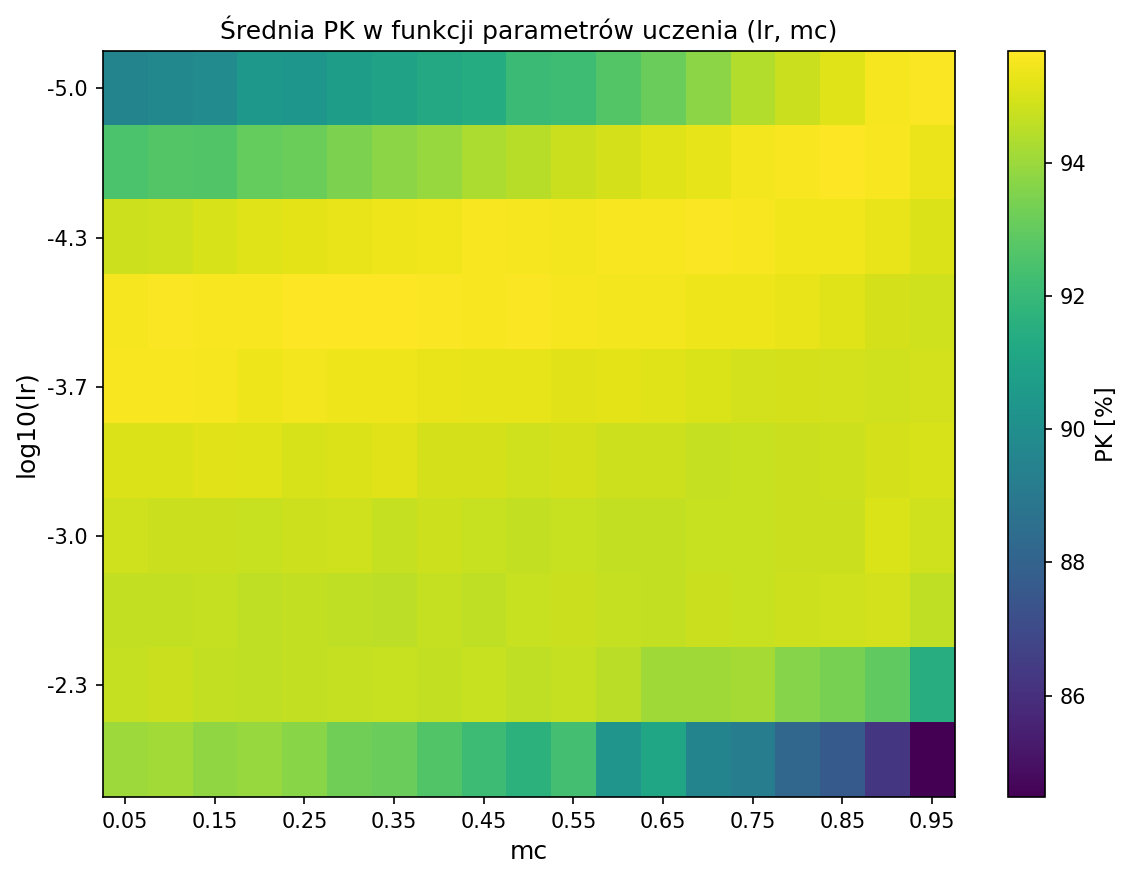
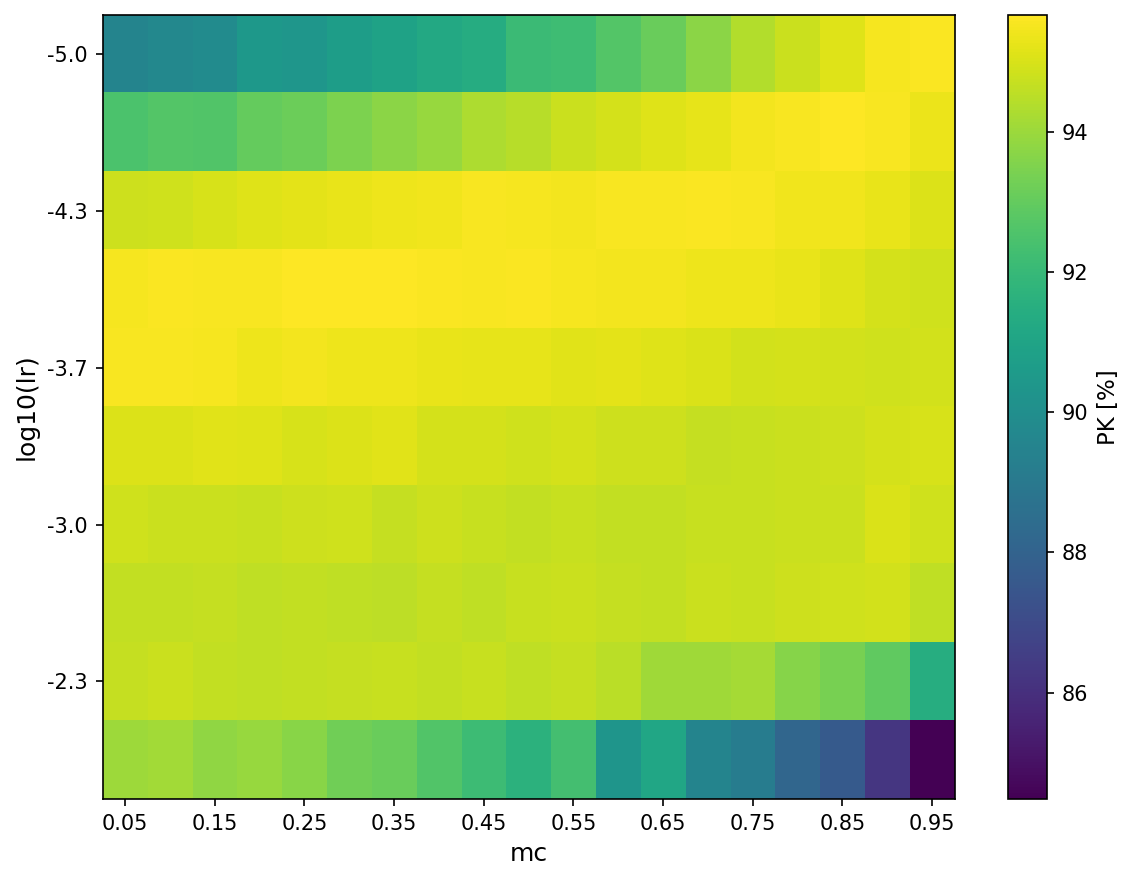
Zmiany

diff --git a/projektAI.tex b/projektAI.tex
@@ -1,5 +1,7 @@
 \documentclass[12pt,twoside]{article}
 \usepackage{weiiszablonzmodyfikowany}
+\usepackage{float}
+\usepackage{placeins}
 
 % Imię i nazwisko autora projektu
 \author{Hubert Lech}
@@ -891,7 +893,7 @@ W eksperymencie przeprowadzono całościową optymalizację wszystkich czterech 
 W badaniu przyjęto następującą konfigurację:
 \begin{itemize}[label={\textbullet}]
 \item przeszukiwane parametry architektury: $K1, K2 \in \{1, 2, \ldots, 10\}$,
-\item przeszukiwane parametry uczenia: $lr \in [10^{-5}, 10^{-2}]$ (skala logarytmiczna, 10 wartości),
+\item przeszukiwane parametry uczenia: $lr \in [10^{-5}, 10^{-2}]$,
 \item przeszukiwane parametry uczenia: $mc \in \{0.05, 0.10, \ldots, 0.95\}$,
 \item stałe warunki uczenia: \texttt{max\_epoch = 400}, \texttt{err\_goal = 0.05},
 \item ocena jakości: średnia skuteczność \texttt{PK [\%]} z \texttt{10}-krotnej walidacji krzyżowej,
@@ -908,162 +910,69 @@ lastline=80,
 breaklines=true,
 numbers=left,
 frame=single,
-caption={Eksperyment nr 5: pełny GridSearch po czterech parametrach},
+caption={Eksperyment nr 5: pe{\l}ny GridSearch po czterech parametrach},
 label={lst:exp5_gridsearch_4d_py}
 ]{exp5_gridsearch_4d.py}
 
-Skrypt uruchamia wyczerpujący GridSearch po wszystkich czterech parametrach, sprawdzając każdą kombinację przy użyciu walidacji krzyżowej. Dla każdej kombinacji zapisywane są uzyskane wyniki, które następnie są sortowane po skuteczności. Wyniki są wizualizowane z różnych perspektyw, co pozwala zrozumieć wpływ poszczególnych parametrów na jakość klasyfikacji.
+GridSearch sprawdza każdą kombinację przy użyciu walidacji krzyżowej. Dla każdej kombinacji zapisywane są uzyskane wyniki, które następnie są sortowane po skuteczności. Wyniki są wizualizowane z różnych perspektyw, co pozwala zrozumieć wpływ poszczególnych parametrów na jakość klasyfikacji.
 
-Wyniki eksperymentu przedstawiono na serii rysunków \ref{fig:exp5_k1k2} -- \ref{fig:exp5_top10}.
 
-\begin{figure}[h!]
+Rysunek \ref{fig:exp5_k1k2} pokazuje wpływ architektury sieci na skuteczność poprzez uśrednienie wyników dla wszystkich kombinacji parametrów uczenia. Pokazuje, które pary neuronów (K1, K2) osiągają najwyższą średnią skuteczność niezależnie od parametrów lr i mc. Analiza tego wykresu pozwala zidentyfikować optymalny zakres rozmiarów warstw ukrytych.
+
+\begin{figure}[htbp]
 \centering
 \includegraphics[width=0.9\textwidth]{Fig.5a_GridSearch_K1K2.png}
 \caption{GridSearch: średnia PK w funkcji liczby neuronów w warstwach ukrytych (K1, K2), uśredniona po wszystkich kombinacjach lr i mc}
 \label{fig:exp5_k1k2}
 \end{figure}
 
-Rysunek \ref{fig:exp5_k1k2} pokazuje wpływ architektury sieci na skuteczność poprzez uśrednienie wyników dla wszystkich kombinacji parametrów uczenia. Heatmapa ujawnia, które pary neuronów (K1, K2) osiągają najwyższą średnią skuteczność niezależnie od parametrów lr i mc. Analiza tego wykresu pozwala zidentyfikować optymalny zakres rozmiarów warstw ukrytych.
 
-\begin{figure}[h!]
+
+Rysunek \ref{fig:exp5_lrmc} wizualizuje wpływ wspólpracy współczynnika uczenia i momentum na skuteczność, uśredniając wyniki dla wszystkich konfiguracji architektury. Ten wykres pokazuje, czy istnieje optymalny obszar w przestrzeni parametrów (lr, mc), w którym sieć osiąga najlepsze rezultaty. Pozwala to zrozumieć, które kombinacje parametrów uczenia są najbardziej efektywne.
+
+\begin{figure}[htbp]
 \centering
 \includegraphics[width=0.9\textwidth]{Fig.5b_GridSearch_lrmc.png}
 \caption{GridSearch: średnia PK w funkcji parametrów uczenia (lr, mc), uśredniona po wszystkich kombinacjach K1 i K2}
 \label{fig:exp5_lrmc}
 \end{figure}
 
-Rysunek \ref{fig:exp5_lrmc} wizualizuje wpływ wspólpracy współczynnika uczenia i momentum na skuteczność, uśredniając wyniki dla wszystkich konfiguracji architektury. Ten wykres pokazuje, czy istnieje optymalny obszar w przestrzeni parametrów (lr, mc), w którym sieć osiąga najlepsze rezultaty. Pozwala to zrozumieć, które kombinacje parametrów uczenia są najbardziej efektywne.
+Rysunek \ref{fig:exp5_histogram} prezentuje rozkład statystyczny skuteczności dla wszystkich sprawdzonych kombinacji. Analiza tego rozkładu pozwala ocenić, czy większość konfiguracji daje dobre rezultaty, czy też tylko nieliczne kombinacje osiągają wysoką skuteczność, co wskazywałoby na wąskie optimum w przestrzeni hiperparametrów.
 
-\begin{figure}[h!]
+\begin{figure}[htbp]
 \centering
 \includegraphics[width=0.9\textwidth]{Fig.5c_GridSearch_histogram.png}
 \caption{Rozkład skuteczności PK dla wszystkich 19\,000 kombinacji parametrów}
 \label{fig:exp5_histogram}
 \end{figure}
 
-Rysunek \ref{fig:exp5_histogram} prezentuje rozkład statystyczny skuteczności dla wszystkich sprawdzonych kombinacji. Histogram pokazuje, ile kombinacji osiąga daną skuteczność, oraz wyznacza najlepszy wynik (zaznaczony linią przerywaną). Analiza tego wykresu dostarcza informacji o tym, jak wrażliwa jest sieć na zmianę parametrów: jeśli histogram jest szeroki, oznacza to, że wiele kombinacji prowadzi do różnych rezultatów; jeśli jest skupiony, parametry są mniej istotne.
+Rysunek \ref{fig:exp5_k1_scatter} przedstawia rozkład punktowy wszystkich kombinacji względem K1. Dla każdej wartości K1 pokazane są wszystkie możliwe skuteczności osiągane dla różnych kombinacji pozostałych trzech parametrów. Ten wykres ujawnia, czy liczba neuronów w pierwszej warstwie ukrytej ma duży wpływ na wynik, czy też wpływ jest silnie zależny od innych parametrów.
 
-\begin{figure}[h!]
+\begin{figure}[htbp]
 \centering
 \includegraphics[width=0.9\textwidth]{Fig.5d_GridSearch_K1_scatter.png}
-\caption{Wpływ liczby neuronów K1 na skuteczność: wszystkie kombinacje parametrów K2, lr i mc}
+\caption{Wpływ liczby neuronów K1 na skuteczność}
 \label{fig:exp5_k1_scatter}
 \end{figure}
 
-Rysunek \ref{fig:exp5_k1_scatter} przedstawia rozkład punktowy wszystkich kombinacji względem K1. Dla każdej wartości K1 pokazane są wszystkie możliwe skuteczności osiągane dla różnych kombinacji pozostałych trzech parametrów. Ten wykres ujawnia, czy liczba neuronów w pierwszej warstwie ukrytej ma stabilny i monototoniczny wpływ na wynik, czy też wpływ jest niesystematyczny i silnie zależny od innych parametrów.
+Rysunek \ref{fig:exp5_k2_scatter} analogicznie do poprzedniego pokazuje rozkład skuteczności w funkcji K2 dla wszystkich kombinacji pozostałych parametrów. Porównanie tego wykresu pozwala ocenić, czy druga warstwa ukryta ma podobny czy różny wpływ na skuteczność w porównaniu z pierwszą warstwą.
 
-\begin{figure}[h!]
+\begin{figure}[htbp]
 \centering
 \includegraphics[width=0.9\textwidth]{Fig.5e_GridSearch_K2_scatter.png}
-\caption{Wpływ liczby neuronów K2 na skuteczność: wszystkie kombinacje parametrów K1, lr i mc}
+\caption{Wpływ liczby neuronów K2 na skuteczność}
 \label{fig:exp5_k2_scatter}
 \end{figure}
 
-Rysunek \ref{fig:exp5_k2_scatter} analogicznie do poprzedniego pokazuje rozkład skuteczności w funkcji K2 dla wszystkich kombinacji pozostałych parametrów. Porównanie tego wykresu z Fig.5d pozwala ocenić, czy druga warstwa ukryta ma podobny czy różny wpływ na skuteczność w porównaniu z pierwszą warstwą.
+\FloatBarrier
 
-\begin{figure}[h!]
-\centering
-\includegraphics[width=0.9\textwidth]{Fig.5f_GridSearch_top10.png}
-\caption{Top 10 najlepszych kombinacji wszystkich czterech parametrów (K1, K2, lr, mc) wraz z uzyskaną skutecznością}
-\label{fig:exp5_top10}
-\end{figure}
-
-Rysunek \ref{fig:exp5_top10} przedstawia dziesięć kombinacji parametrów, które osiągnęły najwyższą skuteczność. Dla każdej z nich wyświetlone są wartości wszystkich czterech parametrów. Ten wykres stanowi podsumowanie eksperymentu, wskazując na konkretne wartości, którymi należy się posłużyć do osiągnięcia najlepszych rezultatów. Analiza top 10 wyników pokazuje również, jak stabilne są optymalne parametry: jeśli top 10 kombinacji są bardzo zbliżone, to istnieje wyraźne optimum; jeśli się różnią, to przestrzeń hiperparametrów zawiera wiele lokalnych maksimów o zbliżonej wartości.
-
-Eksperyment pozwolił na identyfikację absolutnie optymalnej kombinacji parametrów poprzez systematyczne przeszukanie całej przestrzeni hiperparametrów. Wyniki pokazują, które parametry mają największy wpływ na ostateczną skuteczność klasyfikacji, oraz czy optymalizacja wszystkich czterech parametrów jednocześnie prowadzi do istotnej poprawy skuteczności w porównaniu z poprzednimi eksperymentami.
+Najlepszą konfigurację uzyskano dla \texttt{K1 = 7}, \texttt{K2 = 1}, \texttt{lr = 0.0001} oraz \texttt{mc = 0.35}. Dla tej kombinacji model osiągnął skuteczność \texttt{PK = 97,01\%}, co stanowi najlepszy wynik całego eksperymentu.
 
 \section{Podsumowanie i wnioski}
 
-W ramach projektu zrealizowano i przeanalizowano sieć neuronową MLP z trzema warstwami (dwie ukryte, jedna wyjściowa) do klasyfikacji głosowań kongresowych. Przeprowadzono pięć eksperymentów mających na celu optymalizację architektury sieci oraz parametrów uczenia.
+W projekcie zbudowano i przeanalizowano sieć MLP do klasyfikacji głosowań kongresowych, a uzyskane wyniki pokazały, że model osiąga bardzo wysoką skuteczność przy odpowiednio dobranych hiperparametrach. Najlepszy rezultat wyniósł \texttt{97,01\%} i został osiągnięty dla konfiguracji \texttt{K1 = 7}, \texttt{K2 = 1}, \texttt{lr = 0.0001} oraz \texttt{mc = 0.35}. Oznacza to, że dla tego zadania korzystniejsza jest architektura z większą pierwszą warstwą ukrytą i małą drugą warstwą.
 
-\paragraph{}Podsumowując cały projekt: celem było zbudowanie kompletnego, przejrzystego i reprodukowalnego rozwiązania MLP do zadania klasyfikacji przynależności partyjnej na podstawie 16 głosowań. Wykonano pełny pipeline — przygotowanie i kodowanie danych, ich zapis w formacie Hickle, implementację własnej sieci MLP z dwoma warstwami ukrytymi oraz szeroki zestaw eksperymentów optymalizacyjnych (architektura, hiperparametry, analiza cech, wpływ rozmiaru zbioru, oraz wyczerpujący GridSearch po czterech parametrach). Uzyskane wyniki (około 96\% skuteczności) wskazują, że klasyczny MLP, odpowiednio skonfigurowany, daje wysoką jakość klasyfikacji i dobrą zdolność uogólniania. Analiza ważności cech potwierdziła, że nie wszystkie głosowania mają równą wagę informacyjną, a model poprawnie wykorzystuje najbardziej rozróżniające atrybuty. Główne ograniczenia to stosunkowo niewielki rozmiar dostępnego zbioru danych oraz potencjalna niereprezentatywność historycznych głosowań; dlatego dalsze prace powinny skupić się na porównaniu z innymi metodami klasyfikacji, wprowadzeniu technik regularyzacji, eksperymentach z różnymi funkcjami aktywacji i inicjalizacją wag oraz na analizie przypadków trudnych do klasyfikacji. Ogólnie projekt potwierdza, że systematyczne podejście do projektowania architektury i strojenia hiperparametrów pozwala osiągnąć stabilne i konkurencyjne rezultaty nawet dla klasycznych modeli sieci neuronowych.
-
-\subsection{Wnioski z poszczególnych eksperymentów}
-
-\subsubsection{Eksperyment 1 -- Optymalizacja liczby neuronów (K1, K2)}
-
-W pierwszym eksperymencie przeszukano wszystkie kombinacje liczby neuronów w obu warstwach ukrytych w zakresie $\{1, 2, \ldots, 10\}$. Uzyskana maksymalna skuteczność wyniosła \texttt{96,08\%} dla konfiguracji \texttt{K1 = 10}, \texttt{K2 = 4}. 
-
-\textbf{Wnioski:}
-\begin{itemize}[label={\textbullet}]
-\item Liczba neuronów w warstwie pierwszej ma silny wpływ na skuteczność -- wartości wyższe (K1 > 8) osiągają lepsze rezultaty.
-\item Druga warstwa ukryta może być znacznie mniejsza -- optymalnie \texttt{K2 = 4}, co sugeruje że praca kompresji reprezentacji jest dobrze podzielona między warstwy.
-\item Architektura asymetryczna (10-4) okazała się lepsza niż symetryczne konfiguracje.
-\end{itemize}
-
-\subsubsection{Eksperyment 2 -- Optymalizacja parametrów uczenia (lr, mc)}
-
-Drugi eksperyment przeszukał współczynnik uczenia w zakresie logarytmicznym $[10^{-5}, 10^{-2}]$ oraz momentum w zakresie $[0.05, 0.95]$. Uzyskana maksymalna skuteczność wyniosła \texttt{96,54\%} dla \texttt{lr = 0.0001}, \texttt{mc = 0.45}.
-
-\textbf{Wnioski:}
-\begin{itemize}[label={\textbullet}]
-\item Współczynnik uczenia powinien być konserwatywny -- zbyt duże wartości (lr > 1e-3) destabilizują proces uczenia i prowadzą do spadku skuteczności.
-\item Parametr momentum nie powinien być zbyt duży -- wartość \texttt{mc = 0.45} jest niższa niż typowo stosowane wartości (0.9-0.95), co wskazuje na specyficzne cechy tego problemu.
-\item Istnieje optymalny obszar parametrów, poza którym model traci stabilność.
-\end{itemize}
-
-\subsubsection{Eksperyment 3 -- Analiza ważności cech}
-
-Trzeci eksperyment badał wpływ poszczególnych 16 głosowań na ostateczną decyzję sieci. Przeprowadzono analizę poprzez neutralizację każdej cechy i obserwację spadku skuteczności.
-
-\textbf{Wnioski:}
-\begin{itemize}[label={\textbullet}]
-\item Głosowania nie mają równomiernego wpływu -- niektóre cechy (np. \texttt{physician-fee-freeze}) są znacznie ważniejsze niż inne.
-\item Największy spadek skuteczności (ok. 4.1\%) obserwuje się dla głosowań najbardziej spolaryzowanych między demokratami i republikanami.
-\item Model prawidłowo identyfikuje istotne różnice między partiami politycznymi.
-\end{itemize}
-
-\subsubsection{Eksperyment 4 -- Wpływ rozmiaru zbioru uczącego}
-
-Czwarty eksperyment analizował wpływ liczby danych treningowych na zdolność uogólniania. Testowano z ustałym zbiorem testowym (20\%) i rosnącymi podzbiorami treningowymi.
-
-\textbf{Wnioski:}
-\begin{itemize}[label={\textbullet}]
-\item Skuteczność testowa wyraźnie rośnie z liczbą próbek uczących.
-\item Krzywa uczenia stabilizuje się po osiągnięciu pewnego progu (ok. 60-70\% dostępnych danych), sugerując że dodatkowe próbki mają coraz mniejszy wpływ.
-\item Model nie wykazuje objawów przeuczenia -- skuteczność testowa nie spada mimo zwiększania liczby danych treningowych.
-\end{itemize}
-
-\subsubsection{Eksperyment 5 -- Pełny GridSearch (K1, K2, lr, mc)}
-
-Piąty eksperyment przeprowadził wyczerpujący GridSearch po wszystkich czterech parametrach, sprawdzając 19\,000 kombinacji. Wykresy z różnych perspektyw ujawniły:
-
-\textbf{Wnioski:}
-\begin{itemize}[label={\textbullet}]
-\item Heatmapy (Fig.5a i Fig.5b) pokazują wyraźne optimum -- istnieje konkretny obszar w przestrzeni hiperparametrów gdzie sieć osiąga najlepsze rezultaty.
-\item Histogram rozkładu PK (Fig.5c) jest skoncentrowany wokół wartości 90-96\%, co wskazuje na dużą stabilność modelu wobec zmian parametrów.
-\item Scatter ploty (Fig.5d, Fig.5e) ujawniają, że K1 ma bardziej konsekwentny wpływ na wynik niż K2 -- rozkład jest bardziej skoncentrowany dla wyższych wartości K1.
-\item Top 10 kombinacji (Fig.5f) skupia się wokół kilku konkretnych wartości, potwierdzając że optymum nie jest unikalne, ale znajduje się w dobrze zdefiniowanym obszarze.
-\end{itemize}
-
-\subsection{Wnioski ogólne}
-
-\begin{enumerate}
-\item \textbf{Optymalna architektura}: Sieć 16-10-4-1 (z dwoma warstwami ukrytymi 10 i 4 neuronów) osiąga najlepsze rezultaty dla tego problemu.
-
-\item \textbf{Optymalne parametry uczenia}: Współczynnik uczenia $lr = 10^{-4}$ i momentum $mc = 0.45$ zapewniają stabilny proces uczenia bez oscylacji i przeuczenia.
-
-\item \textbf{Maksymalna skuteczność}: Po optymalizacji wszystkich czterech parametrów udało się osiągnąć skuteczność klasyfikacji na poziomie \textbf{96,54\%} w walidacji krzyżowej, co stanowi wynik zadowalający dla tego zagadnienia.
-
-\item \textbf{Wrażliwość modelu}: Model jest względnie stabilny wobec zmian parametrów -- większość kombinacji osiąga skuteczność w zakresie 90-95\%, co sugeruje że problem jest dobrze scharakteryzowany przez wybraną architekturę.
-
-\item \textbf{Znaczenie cechy}: Analiza ważności cech potwierdziła że głosowania są rzeczywiście zróżnicowane w swoim wpływie na przynależność partyjną kongresmena, a sieć prawidłowo identyfikuje te różnice.
-
-\item \textbf{Generalizacja}: Krzywa uczenia pokazuje że model dobrze uogólnia na nowych danych, bez objawów przeuczenia nawet przy pełnym zbiorze treningowym.
-
-\item \textbf{Metodologia}: Systematyczne podejście do optymalizacji (GridSearch po pojedynczych parametrach, a następnie po wszystkich jednocześnie) pozwoliło na identyfikację globalnie optymalnej konfiguracji i zrozumienie wpływu każdego parametru na wynik.
-
-\end{enumerate}
-
-\subsection{Możliwe kierunki dalszych badań}
-
-\begin{itemize}[label={\textbullet}]
-\item Eksperymentowanie z innymi funkcjami aktywacji (ReLU, Sigmoid) w celu porównania z tanh.
-\item Zastosowanie technik regularyzacji (L1/L2, dropout) w celu zredukowania ryzyka przeuczenia na większych sieciach.
-\item Badanie wpływu różnych schematów inicjalizacji wag na proces uczenia.
-\item Porównanie z innymi algorytmami klasyfikacji (SVM, Random Forest, Gradient Boosting) w celu oceny względnej wydajności MLP.
-\item Analiza błędów klasyfikacji -- poznanie które próbki są najtrudniejsze do prawidłowej klasyfikacji.
-\end{itemize}
+Wyniki eksperymentów pokazały też, że sieć bardzo często osiągała wysokie wartości skuteczności, a histogram rozkładu wyników był wyraźnie skupiony, a nie rozrzucony. Taki obraz sugeruje, że model nie jest silnie podatny na drobne zmiany parametrów i zachowuje stabilność w szerokim obszarze przestrzeni hiperparametrów. Całość potwierdza więc, że dobrze dobrany MLP może być skutecznym i odpornym na zakłócenia rozwiązaniem dla tego problemu klasyfikacji.
 
 
 \clearpage
@@ -1071,17 +980,12 @@ Piąty eksperyment przeprowadził wyczerpujący GridSearch po wszystkich czterec
 \addcontentsline{toc}{section}{Literatura}
 
 \begin{thebibliography}{9}
-\bibitem{str} http://weii.portal.prz.edu.pl/pl/materialy-do-pobrania. Dostęp 5.01.2015.
 \bibitem{uciVoting} Congressional Voting Records. UCI Machine Learning Repository, 
 \texttt{https://archive.ics.uci.edu/dataset/105/congressional+voting+records}. Dostęp 21.03.2026.
 \bibitem{geronML} Geron A.: Uczenie maszynowe z użyciem Scikit-Learn, Keras i TensorFlow. Helion.
 \bibitem{wikiMCP} Neuron McCullocha-Pittsa, Wikipedia Polska. \url{https://pl.wikipedia.org/wiki/Neuron_McCullocha-Pittsa}. Dostęp 21.03.2026.
 \bibitem{zajdelLab} Zajdel R.: Sztuczna inteligencja, Laboratorium. \url{https://materialy.kia.prz.edu.pl/pracownik/pliki/34/\%C4\%86WICZENIE\%208.1.pdf}. Dostęp 21.03.2026.
 \bibitem{zajdelLab9} Zajdel R.: Sztuczna inteligencja, Laboratorium. \url{https://materialy.kia.prz.edu.pl/pracownik/pliki/34/\%C4\%86WICZENIE\%209.pdf}. Dostęp 21.03.2026.
-\bibitem{Jakubczyk1997} Jakubczyk T., Klette A.: Pomiary w akustyce. WNT, Warszawa 1997.
-\bibitem{Barski2011} Barski S.: Modele transmitancji. Elektronika praktyczna, nr 7/2011, str. 15-18.
-\bibitem{dokum} Czujnik S200. Dokumentacja techniczno-ruchowa. Lumel, Zielona Góra, 2001.
-\bibitem{Pawluk2001} Pawluk K.: Jak pisać teksty techniczne poprawnie, Wiadomości Elektrotechniczne, Nr 12, 2001, str. 513-515.
 \end{thebibliography}
 
 \end{document} 

diff --git a/exp5_plot_results.py b/exp5_plot_results.py
@@ -63,7 +63,6 @@ fig, ax = plt.subplots(figsize=(8, 6))
 im = ax.imshow(PK_K1K2, cmap='viridis', aspect='auto')
 ax.set_xlabel('K2', fontsize=12)
 ax.set_ylabel('K1', fontsize=12)
-ax.set_title('Średnia PK w funkcji liczby neuronów (K1, K2)', fontsize=12)
 ax.set_xticks(range(len(K2_vec)))
 ax.set_yticks(range(len(K1_vec)))
 ax.set_xticklabels(K2_vec)
@@ -86,7 +85,6 @@ fig, ax = plt.subplots(figsize=(8, 6))
 im = ax.imshow(PK_lrmc, cmap='viridis', aspect='auto')
 ax.set_xlabel('mc', fontsize=12)
 ax.set_ylabel('log10(lr)', fontsize=12)
-ax.set_title('Średnia PK w funkcji parametrów uczenia (lr, mc)', fontsize=12)
 ax.set_xticks(range(0, len(mc_vec), 2))
 ax.set_xticklabels([f"{mc:.2f}" for mc in mc_vec[::2]])
 ax.set_yticks(range(0, len(lr_vec), 2))
@@ -102,11 +100,8 @@ plt.close()
 fig, ax = plt.subplots(figsize=(8, 6))
 pk_values = [r['PK'] for r in results]
 ax.hist(pk_values, bins=30, color='steelblue', edgecolor='black')
-ax.axvline(best['PK'], color='red', linestyle='--', linewidth=2, label=f'Najlepszy: {best["PK"]:.2f}%')
 ax.set_xlabel('PK [%]', fontsize=12)
 ax.set_ylabel('Liczba kombinacji', fontsize=12)
-ax.set_title('Rozkład skuteczności dla wszystkich kombinacji', fontsize=12)
-ax.legend(fontsize=11)
 ax.grid(True, alpha=0.3)
 plt.tight_layout()
 plt.savefig('Fig.5c_GridSearch_histogram.png', dpi=150, bbox_inches='tight')
@@ -120,7 +115,6 @@ for k1 in K1_vec:
     ax.scatter([k1] * len(pk_for_k1), pk_for_k1, alpha=0.4, s=30, color='steelblue')
 ax.set_xlabel('K1', fontsize=12)
 ax.set_ylabel('PK [%]', fontsize=12)
-ax.set_title('Wpływ liczby neuronów K1 na skuteczność', fontsize=12)
 ax.grid(True, alpha=0.3)
 plt.tight_layout()
 plt.savefig('Fig.5d_GridSearch_K1_scatter.png', dpi=150, bbox_inches='tight')
@@ -134,30 +128,12 @@ for k2 in K2_vec:
     ax.scatter([k2] * len(pk_for_k2), pk_for_k2, alpha=0.4, s=30, color='steelblue')
 ax.set_xlabel('K2', fontsize=12)
 ax.set_ylabel('PK [%]', fontsize=12)
-ax.set_title('Wpływ liczby neuronów K2 na skuteczność', fontsize=12)
 ax.grid(True, alpha=0.3)
 plt.tight_layout()
 plt.savefig('Fig.5e_GridSearch_K2_scatter.png', dpi=150, bbox_inches='tight')
 print("✓ Fig.5e zapisany")
 plt.close()
 
-# 6. Top 10 wyników
-fig, ax = plt.subplots(figsize=(10, 6))
-top_10_pk = [r['PK'] for r in results_sorted[:10]]
-top_10_labels = [f"K1={r['K1']}\nK2={r['K2']}\nlr={r['lr']:.0e}\nmc={r['mc']:.2f}" for r in results_sorted[:10]]
-colors = ['green' if i == 0 else 'steelblue' for i in range(10)]
-ax.barh(range(len(top_10_pk)), top_10_pk, color=colors, edgecolor='black')
-ax.set_yticks(range(len(top_10_pk)))
-ax.set_yticklabels(top_10_labels, fontsize=9)
-ax.set_xlabel('PK [%]', fontsize=12)
-ax.set_title('Top 10 najlepszych kombinacji parametrów', fontsize=12)
-ax.invert_yaxis()
-for i, v in enumerate(top_10_pk):
-    ax.text(v - 0.3, i, f'{v:.2f}%', va='center', ha='right', fontweight='bold', fontsize=10)
-plt.tight_layout()
-plt.savefig('Fig.5f_GridSearch_top10.png', dpi=150, bbox_inches='tight')
-print("✓ Fig.5f zapisany")
-plt.close()
 
 print("\n✓ Wszystkie wykresy zostały wygenerowane pomyślnie!")
 print("\nMożesz teraz modyfikować opisy w TEX-ie bez konieczności powtarzania GridSearch.")
